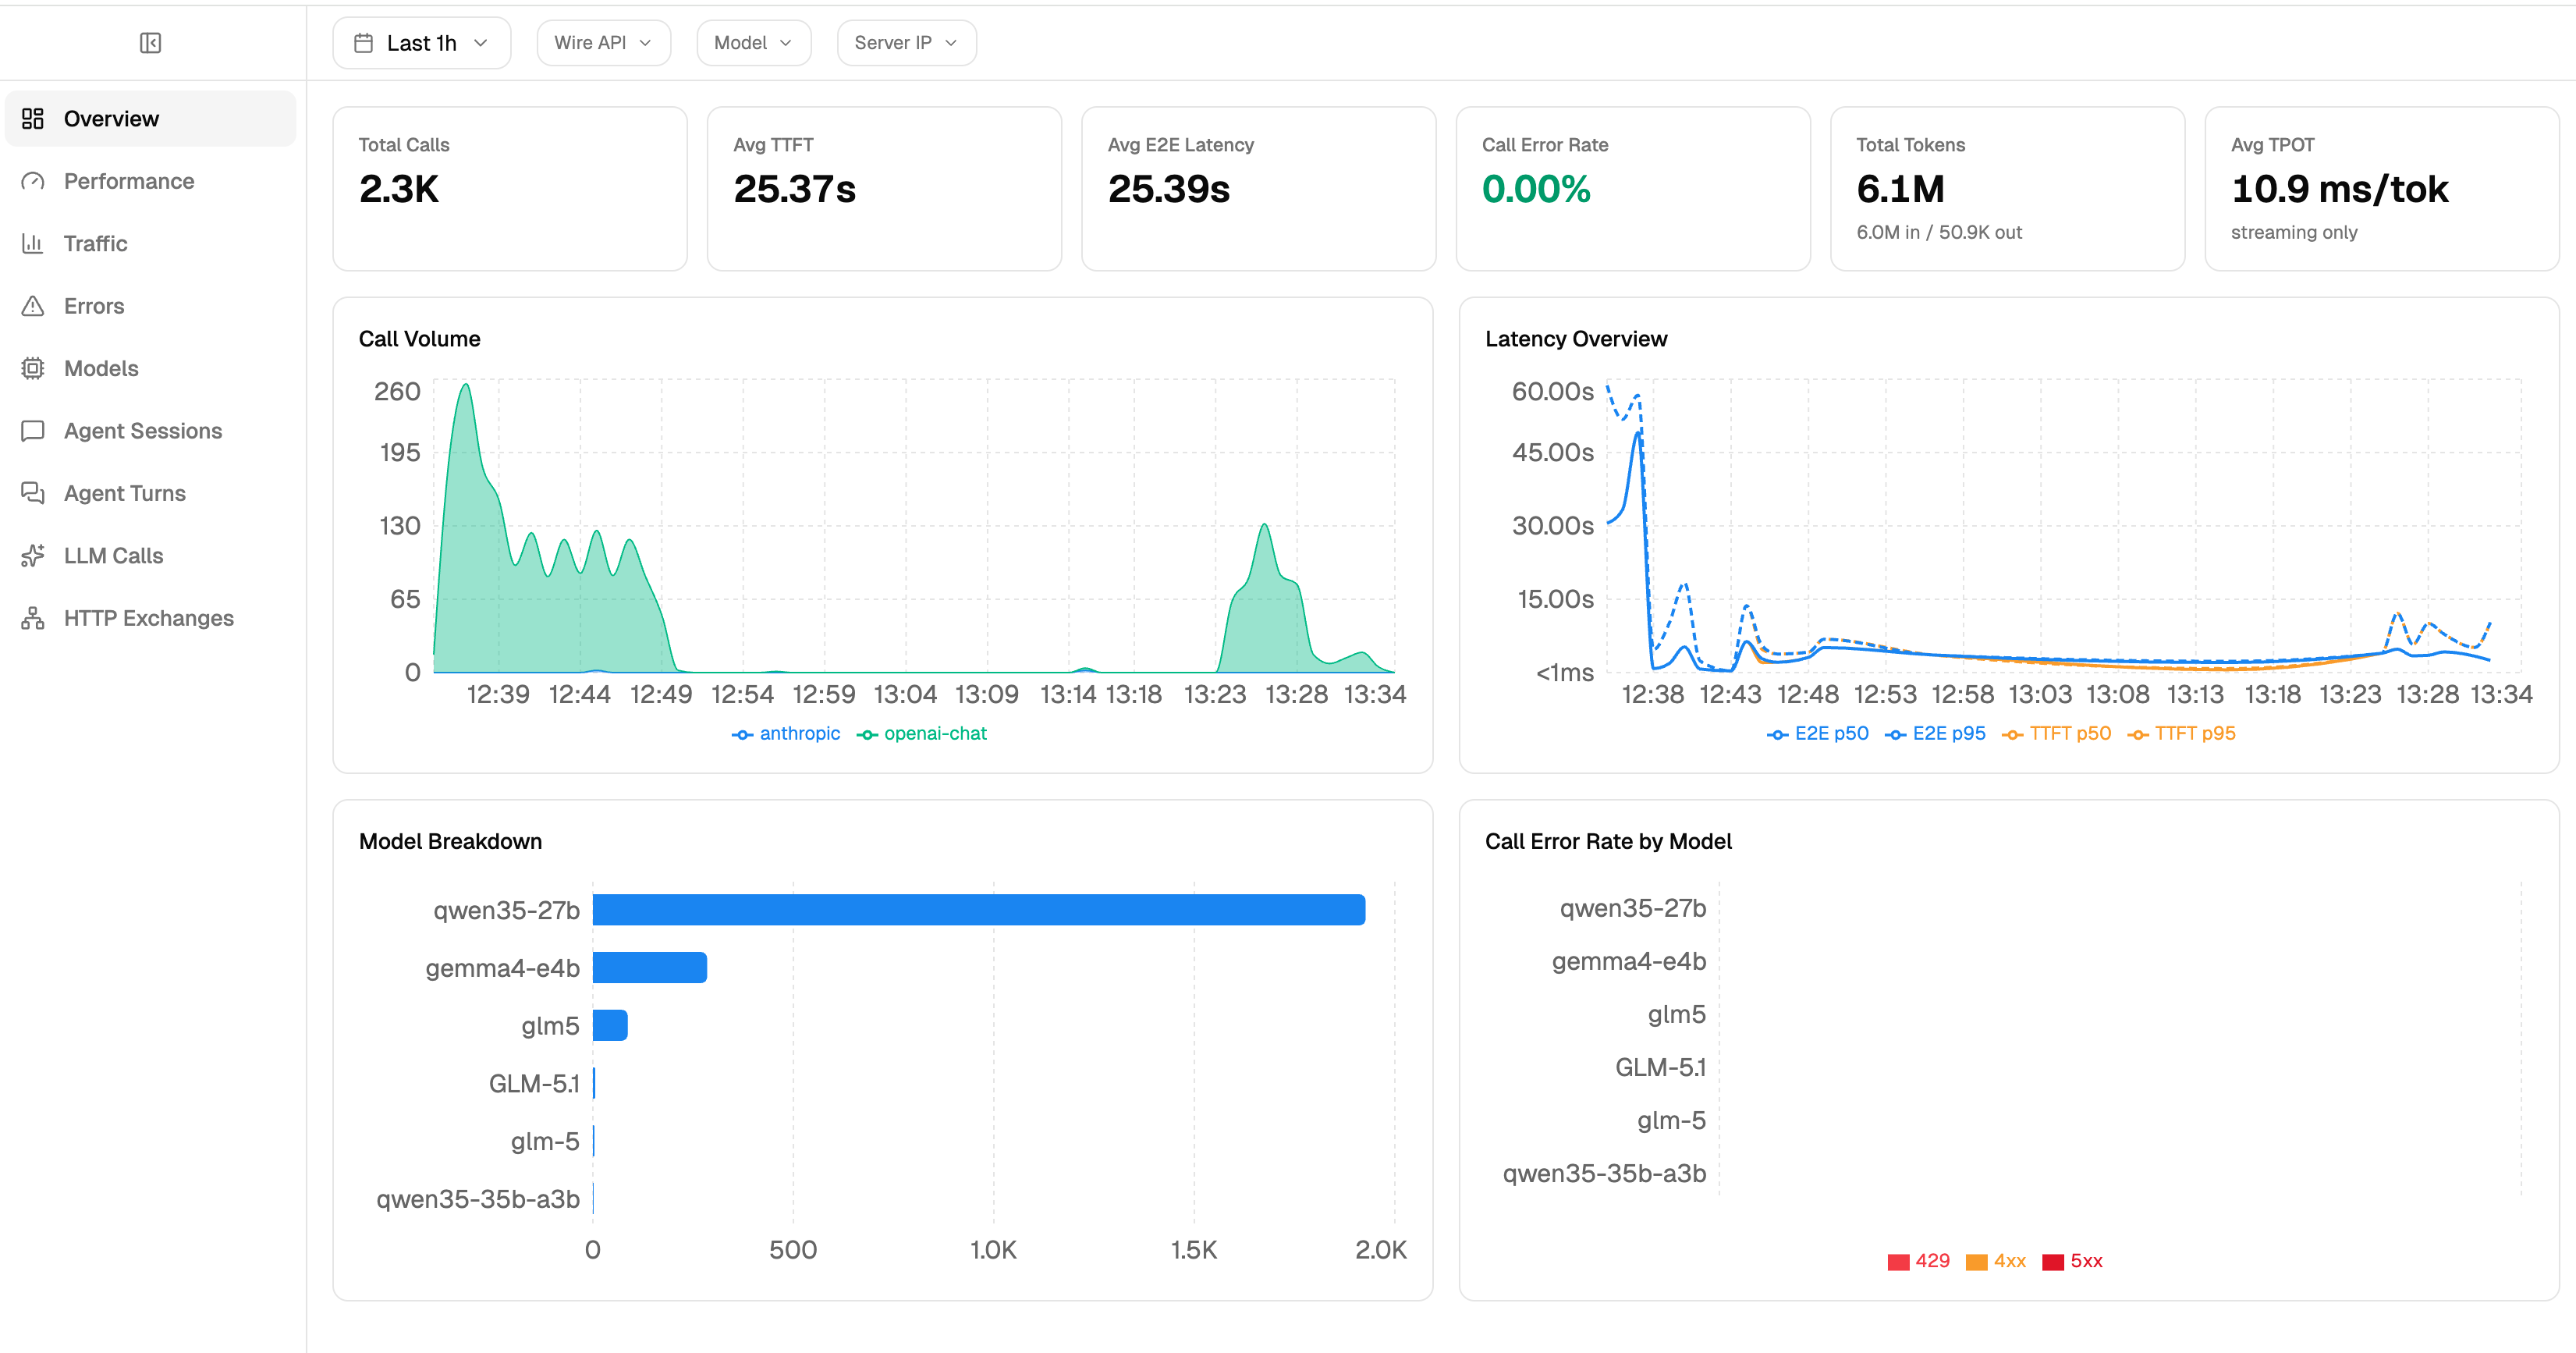
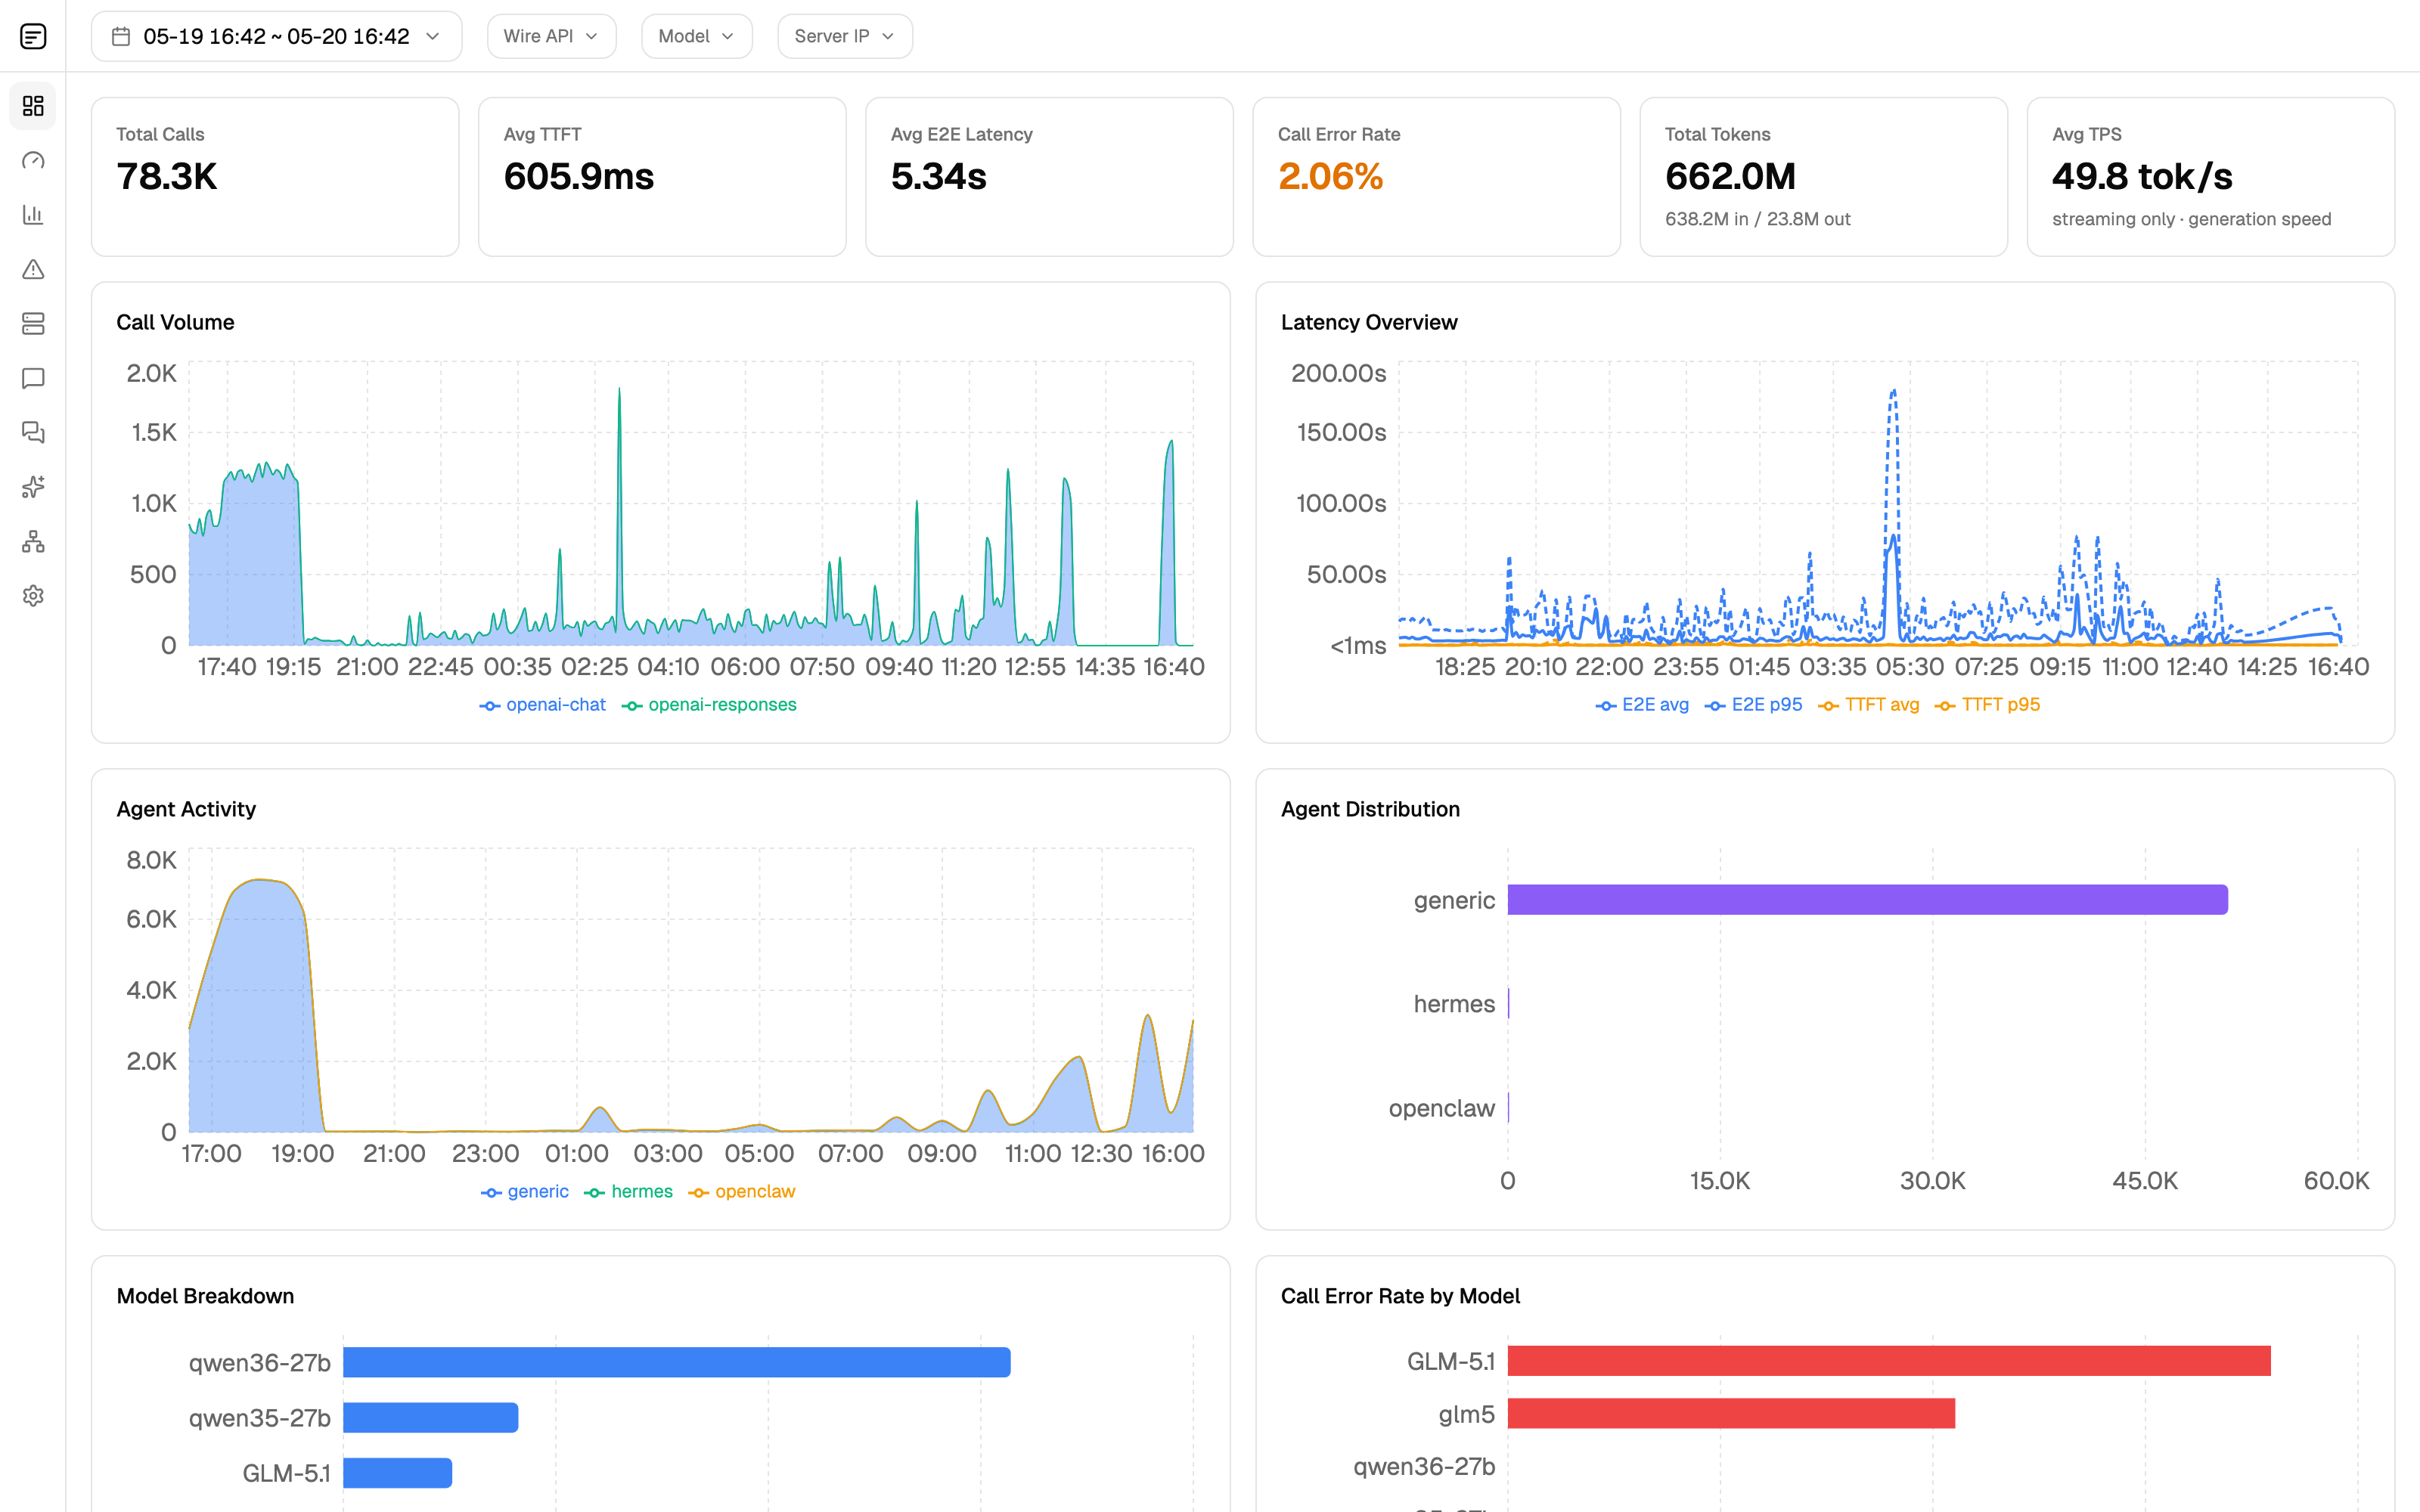
docs(README): reframe as agent observability + new screenshots
The README was leading with "LLM API observability" and showing
LLM-call-level screenshots. The project's actual differentiator
versus an SDK / proxy / OTel server is the agent-turn assembly —
stitching planner / tool / planner / tool calls into one addressable
narrative — and the service-topology graph that shows the agent's
call graph as a service-to-service DAG. Those are the shots a new
visitor needs to see first.

* Headline + intro reframe around what agents are doing (tool calls,
  multi-step plans, where loops happen, who calls whom).
* Hero screenshot: regenerated agent-turn-detail — a real 247-call
  agent run with the Timeline gantt + per-call drilldown.
* Two new in-body screenshots: Agent Turns list (sorted by call
  count) and Services Path view (service-to-service topology graph).
* Pull the Overview shot up alongside the metrics paragraph — it
  now shows the new Agent Activity + Agent Distribution charts.
* Add Reconstructs-agent-turns column to the SDK/proxy/OTel
  comparison table.

Adds scripts/screenshots/ — Playwright-based snap.mjs that
regenerates these images from any running TokenScope instance.

diff --git a/README.md b/README.md
@@ -1,12 +1,14 @@
 # TokenScope
 
-**LLM API observability from the network wire.** A passive, provider-side analyzer that turns LLM API traffic into structured performance, cost, and behavioral telemetry — without an SDK, sidecar, or proxy in the request path.
+**Agent observability from the network wire.** A passive analyzer that watches LLM traffic on the wire and reconstructs what your agents are actually *doing* — tool calls, multi-step plans, where time is spent, where loops happen, who calls whom — without an SDK, sidecar, or proxy in the request path.
 
-![Agent turn detail — multi-call agent interactions stitched into one addressable behavior narrative](docs/images/agent-turn-detail.png)
+![Agent turn detail — a 247-call agent run, every tool call ordered on the Timeline, drilling into one call's request/response on the right](docs/images/agent-turn-detail.png)
 
 ## What it does
 
-TokenScope reads LLM API traffic (post-TLS, on the inference host or downstream of a TLS terminator), decodes the protocol — including SSE streaming and chunked encoding — reconstructs **agent turns** by stitching multi-call interactions together, and emits queryable metrics and per-call detail through a built-in web console.
+Most agent code looks fine on paper and falls apart in production: a tool call stalls, the planner loops between two states, a downstream service silently substitutes a different model. TokenScope reconstructs that behavior from the bytes on the wire — packet capture → HTTP / SSE parse → wire-API decode → semantic extraction → **agent-turn assembly** — and serves the result through a console that's organized around *turns and sessions*, not raw HTTP calls.
+
+It reads post-TLS traffic — on the inference host, behind a TLS terminator, or fed in from a SPAN/TAP point via [cloud-probe](https://github.com/Netis/cloud-probe). Multi-call agent interactions (planner → tool → planner → tool …) stitch into a single addressable turn. Multi-leg proxy hops (litellm in front of vLLM/SGLang/haproxy) fold automatically. The pipeline never sits in the request path, so the observer can fail without breaking the calls being observed.
 
 ```
 NIC / .pcap file / cloud-probe (ZMQ)
@@ -28,16 +30,16 @@ Same connection's packets always land on the same worker, so parsing state is lo
 
 ## Why not an SDK / proxy / OpenTelemetry?
 
-| Approach                   | In request path | Needs client cooperation | Sees full bodies |
-| -------------------------- | :-------------: | :----------------------: | :--------------: |
-| SDK instrumentation        |       yes       |    every client must     |       yes        |
-| Reverse proxy (LiteLLM …)  |       yes       |   clients point at it    |       yes        |
-| OpenTelemetry from server  |       yes       |     server must emit     |     partial      |
-| **TokenScope**             |     **no**      |          **no**          |   **yes**¹       |
+| Approach                   | In request path | Needs client cooperation | Sees full bodies | Reconstructs agent turns |
+| -------------------------- | :-------------: | :----------------------: | :--------------: | :----------------------: |
+| SDK instrumentation        |       yes       |    every client must     |       yes        |  every client must emit  |
+| Reverse proxy (LiteLLM …)  |       yes       |   clients point at it    |       yes        |       per-call only      |
+| OpenTelemetry from server  |       yes       |     server must emit     |     partial      |  if the server tags it   |
+| **TokenScope**             |     **no**      |          **no**          |   **yes**¹       |        **yes**           |
 
 ¹ TLS-terminated traffic only — TokenScope sees plaintext HTTP. Install it where the traffic is already decrypted: on the inference host, behind the TLS terminator, or fed by [cloud-probe](https://github.com/Netis/cloud-probe) from a SPAN/TAP point.
 
-The trade-off is honest: you give up cross-cluster client tracing, you get a single passive evidence chain that can't break the call when the observer fails, and that requires zero cooperation from the workloads being observed.
+The trade-off is honest: you give up cross-cluster client tracing, you get a single passive evidence chain that can't break the call when the observer fails, that requires zero cooperation from the workloads being observed, and that **assembles the agent narrative for you** instead of leaving you to join calls into turns in your data warehouse.
 
 ## What's in the box
 
@@ -46,32 +48,40 @@ The trade-off is honest: you give up cross-cluster client tracing, you get a sin
 - Replay from `.pcap` files (any speed)
 - ZMQ from [cloud-probe](https://github.com/Netis/cloud-probe) for hosts you can't install on directly
 
+**Agent-turn reconstruction** with named profiles for **Claude CLI** (Claude Code) and **OpenAI Codex CLI**, a generic profile for everything else, plus an experimental OpenClaw profile. Turns stitch multi-call agent interactions (tool call → tool result → planner → next tool, repeat) into a single addressable unit. The hero screenshot above is one such turn — 247 calls, ordered on the Timeline, drillable into the request/response of any single call.
+
+![Agent Turns list — sorted by call count to surface the most complex agent runs first](docs/images/agent-turns.png)
+
+**Service topology — see the agent's call graph, not just the calls.** The Services page's Path view shows your inference fleet as a directed graph: clients → litellm proxies → vLLM / SGLang backends, with edge thickness scaled by turn count. Proxy hops paired by the passive sweeper render as solid edges; heuristically-inferred hops (when the inbound `client_ip` matches a known service) render as dashed; anonymous client traffic is dotted. The classifier names what each endpoint actually serves — vLLM, SGLang, Ollama, llama.cpp, LiteLLM — from the bytes on the wire, not from configuration the operator told it.
+
+![Services Path view — service-to-service call graph with proxy / inferred / client edges, colored by app](docs/images/services-path.png)
+
 **Wire-API decoders**
 - OpenAI Chat Completions (`/v1/chat/completions`)
 - OpenAI Responses (`/v1/responses`)
 - Anthropic Messages (`/v1/messages`)
 - Gemini AI Studio (`generativelanguage.googleapis.com`)
 
-This covers OpenAI direct, Azure OpenAI, Anthropic direct, AWS Bedrock / GCP Vertex (Anthropic wire), Google Gemini, and any OpenAI-compatible local server — vLLM, Ollama, llama.cpp's server, LM Studio, etc.
+This covers OpenAI direct, Azure OpenAI, Anthropic direct, AWS Bedrock / GCP Vertex (Anthropic wire), Google Gemini, and any OpenAI-compatible local server — vLLM, SGLang, Ollama, llama.cpp's server, LM Studio, etc.
 
-**Agent-turn reconstruction** with named profiles for **Claude CLI** (Claude Code) and **OpenAI Codex CLI**, a generic profile for everything else, plus an experimental OpenClaw profile. Turns stitch multi-call agent interactions (tool calls, follow-ups) into a single addressable unit — the screenshot above is one such turn.
-
-**Per-call drill-down** — every LLM call is captured with structured request/response *and* the raw body. Stalled tool calls, malformed prompts, unexpected token counts: the evidence is on the page, not behind a re-run.
+**Per-call drill-down when you need it** — every LLM call is also captured with structured request/response *and* the raw body. Stalled tool calls, malformed prompts, unexpected token counts: the evidence is on the page, not behind a re-run.
 
 ![LLM call detail — structured request/response with full body drawer](docs/images/llm-call-detail.png)
 
-**Metrics** (sliding-window, per LLM Call): TTFT · E2E latency · TPOT · token throughput · call rate · active calls · call error rate · prompt-cache hit ratio. See [glossary](docs/glossary.md) for what each means and why.
+**Metrics** are framed first at the **agent layer** — turn count and duration distribution per agent kind, call count per turn, tool-call success rate — and then at the **call layer**: TTFT · E2E latency · TPOT · token throughput · call rate · active calls · call error rate · prompt-cache hit ratio. The Overview page is built around both. See [glossary](docs/glossary.md) for what each means and why.
+
+![Overview — agent activity timeseries + per-kind distribution at the top, call-rate / latency / error rate / per-model panels below](docs/images/overview.png)
 
 **Storage** in DuckDB (default, embedded, single-file) with per-table retention enabled out of the box. Pluggable backend trait — PostgreSQL and ClickHouse are designed but not yet wired.
 
-**Console** at `http://localhost:3000`: overview · performance · traffic · models · errors · LLM calls (with full request/response body drill-down) · raw HTTP exchanges · agent turns · agent sessions · pipeline-health debug views.
+**Console** at `http://localhost:3000`: overview · performance · usage · errors · services (table / path / model views) · agent turns · agent sessions · LLM calls (with full request/response body drill-down) · raw HTTP exchanges · pipeline-health debug views.
 
 <details>
 <summary>More console screenshots</summary>
 
-![Agent session — full transcript across turns](docs/images/agent-session-detail.png)
+![Services Table view — per-endpoint metrics with auto-classified app type](docs/images/services-table.png)
 
-![Overview — fleet-level health at a glance](docs/images/overview.png)
+![Agent session — full transcript across turns](docs/images/agent-session-detail.png)
 
 ![Traffic — call rate and token throughput over time](docs/images/traffic.png)
 
@@ -83,10 +93,10 @@ This covers OpenAI direct, Azure OpenAI, Anthropic direct, AWS Bedrock / GCP Ver
 
 ## Who it's for
 
-- **LLM provider ops & on-prem inference operators** — measure your fleet from ground truth, not from what each SDK reports
-- **Agent developers** — debug stalled tool calls and detect agent loops without modifying the agent
-- **FinOps & engineering managers** — attribute spend across teams/repos/projects from real traffic, not periodic exports
-- **Compliance & security** — capture-once evidence chain of what crossed the wire
+- **Agent developers** — debug stalled tool calls, detect plan-loop / "no submit" failure modes, and see exactly which model+endpoint each turn hit, without modifying the agent or its SDK
+- **AI platform / inference ops** — see the real service-to-service topology your traffic flows through (clients → litellm → vLLM / SGLang), measure each hop independently, and catch silent model substitutions
+- **FinOps & engineering managers** — attribute spend across teams/repos/projects from real turns, not periodic SDK exports that can drift
+- **Compliance & security** — capture-once evidence chain of what crossed the wire, scoped per agent kind and per session
 
 ## Quickstart
 

diff --git a/scripts/screenshots/README.md b/scripts/screenshots/README.md
@@ -1,0 +1,47 @@
+# README screenshot regenerator
+
+Drives a running TokenScope console with Playwright and writes
+PNGs into `docs/images/`. Used to refresh the README hero shots.
+
+## Setup (once per machine)
+
+```sh
+cd scripts/screenshots
+npm install
+npx playwright install chromium
+```
+
+## Run
+
+```sh
+# Point at any TokenScope instance with real agent traffic.
+# WINDOW_HOURS controls the time-range query string (default 24).
+# TURN_ID deep-links the agent-turn-detail shot to a specific
+# many-call run — pick one with ≥100 calls so the gantt is dense.
+BASE=http://172.16.103.81:4500 \
+WINDOW_HOURS=24 \
+TURN_ID=019e4242-9b82-7083-8cba-a046f3477e44 \
+OUT=$PWD/../../docs/images \
+node snap.mjs
+```
+
+Picks for `TURN_ID` come from:
+
+```sh
+curl -sS "$BASE/api/agent-turns?start=...&end=...&page_size=20&sort_by=call_count&sort_order=desc" \
+  | jq '.data.items[] | {turn_id, agent_kind, call_count, primary_model}'
+```
+
+## What gets written
+
+| File | Page |
+|---|---|
+| `overview.png` | `/` — agent activity + distribution + call-rate / latency / model panels |
+| `agent-turns.png` | `/agent-turns` — list view sorted by call_count |
+| `agent-turn-detail.png` | `/agent-turns?selected=<id>` — gantt timeline + per-call drilldown (skipped if `TURN_ID` not set) |
+| `services-table.png` | `/services` — per-endpoint table |
+| `services-path.png` | `/services` — Path tab, the service-to-service topology graph |
+| `agent-session-detail.png` | `/agent-sessions` with first row clicked open |
+
+Each shot is 1600×1000 viewport @2× device-scale, no full-page —
+that keeps the README images digestible without scroll.